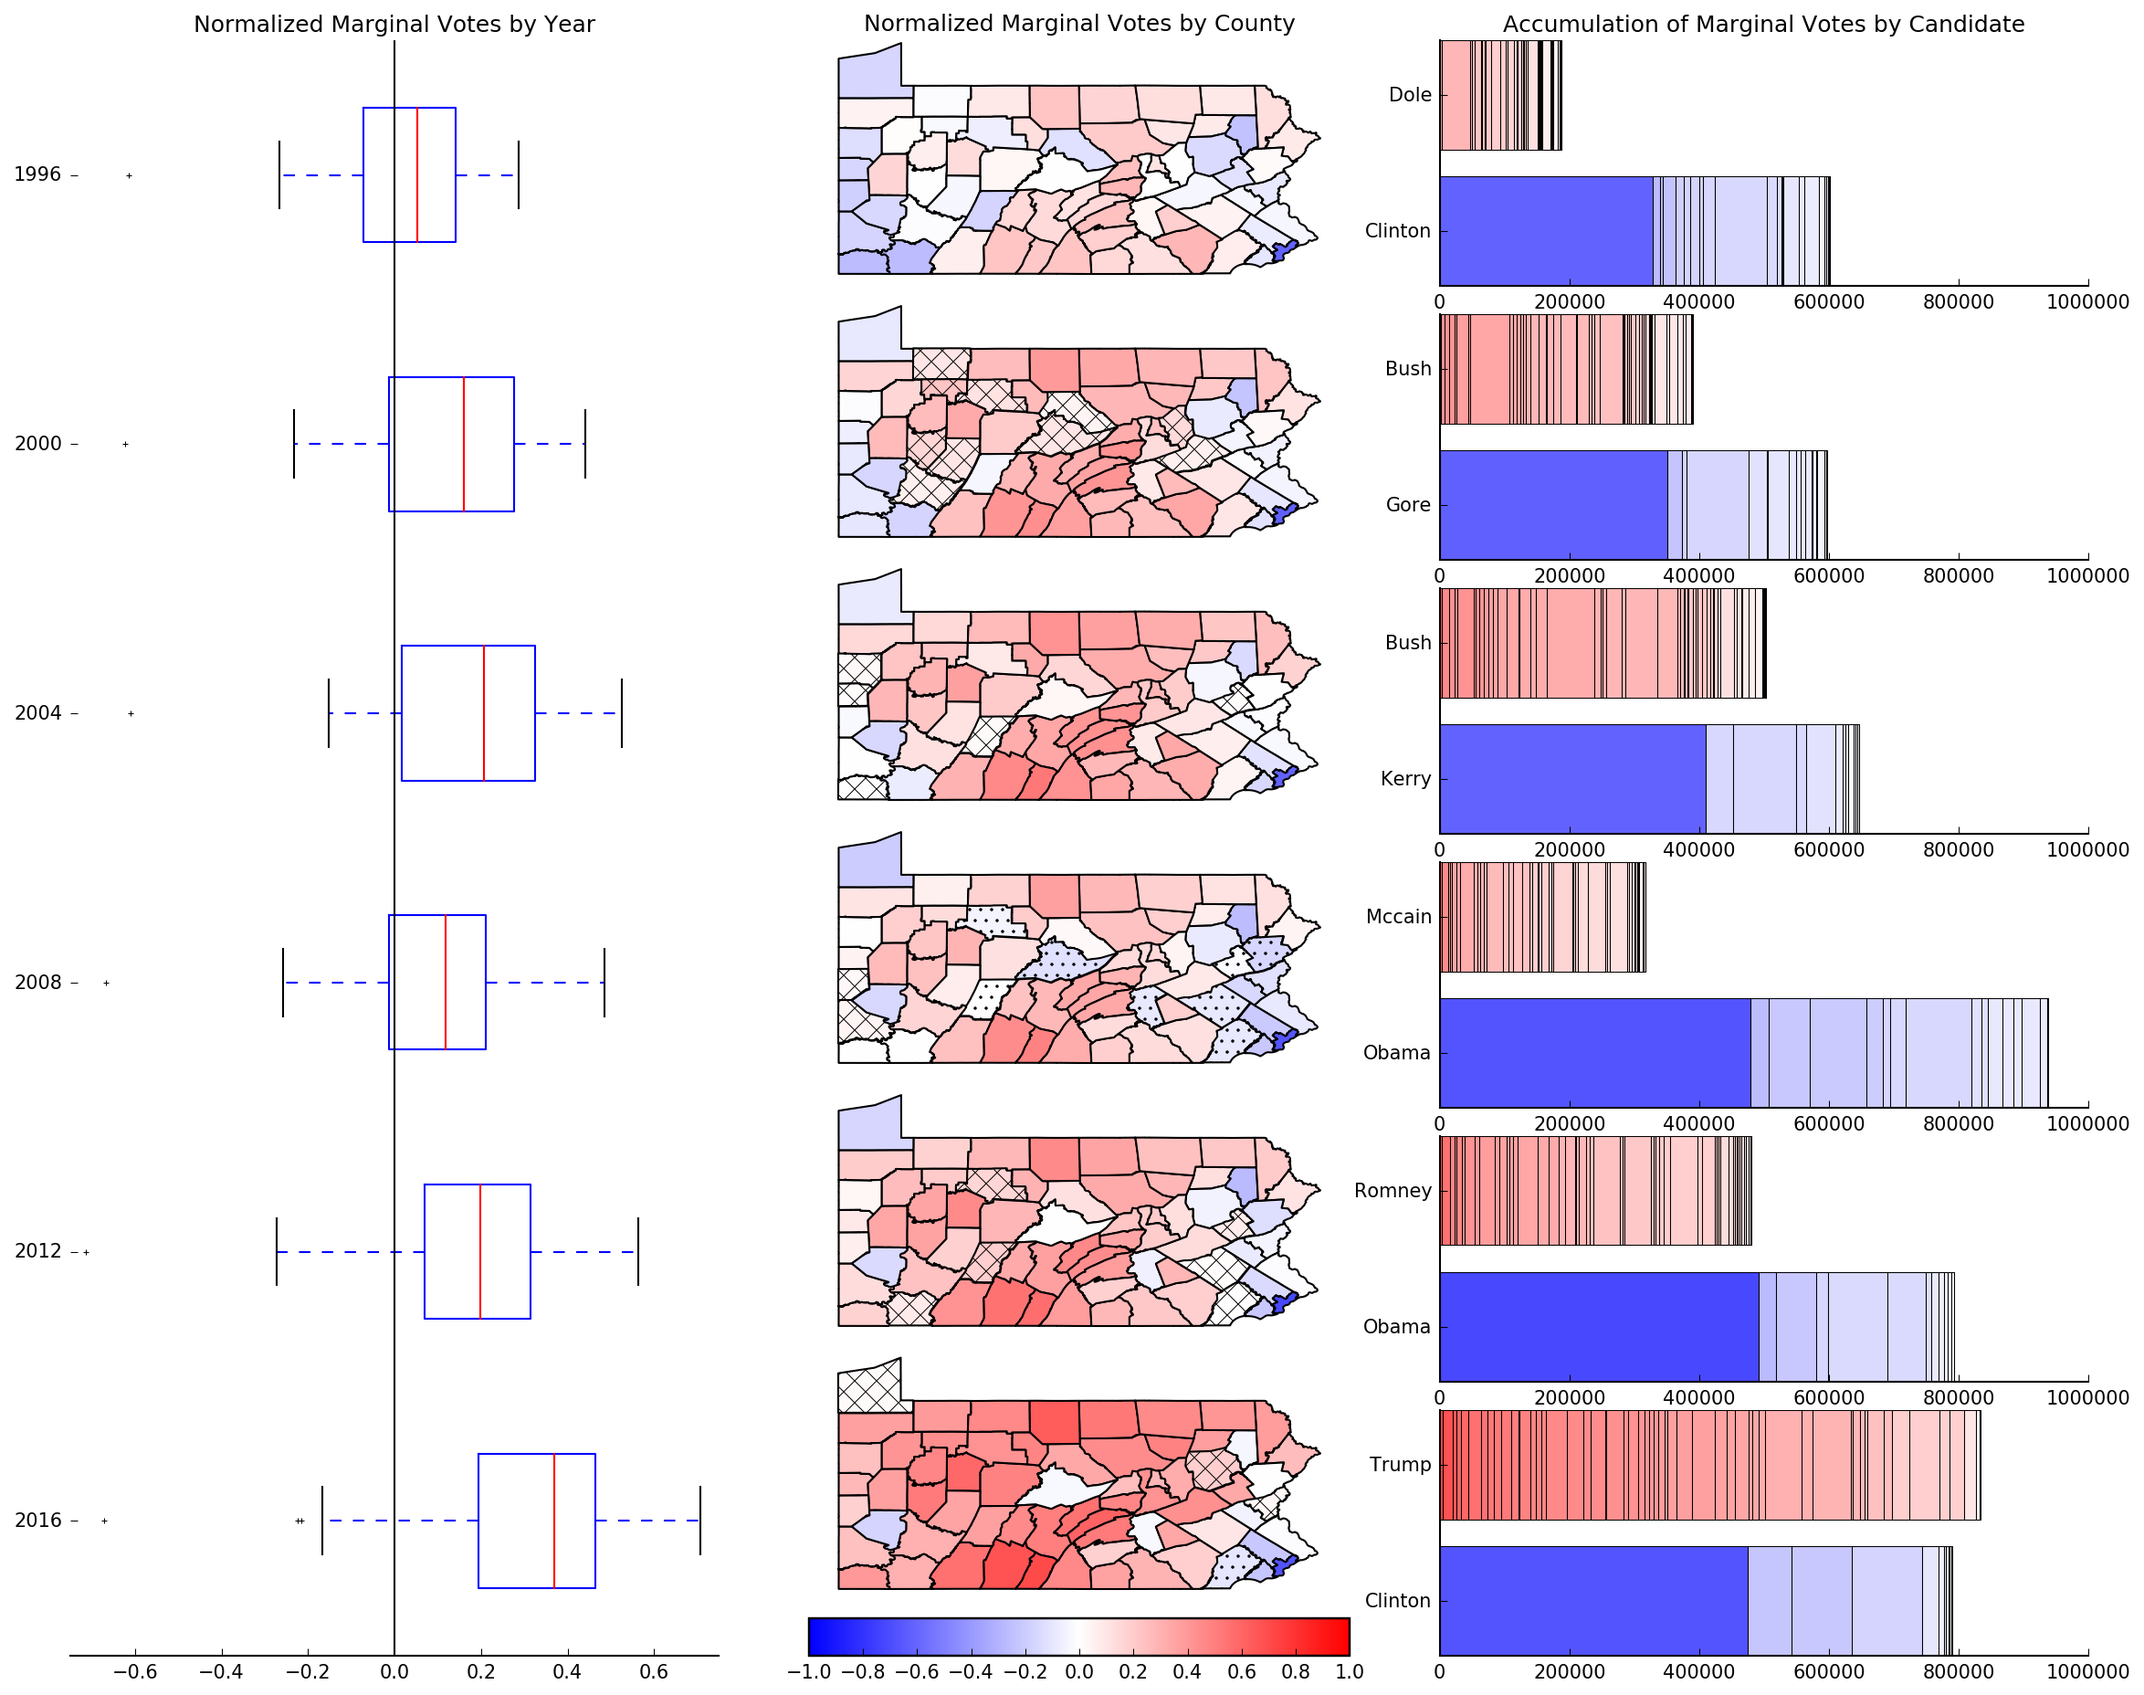
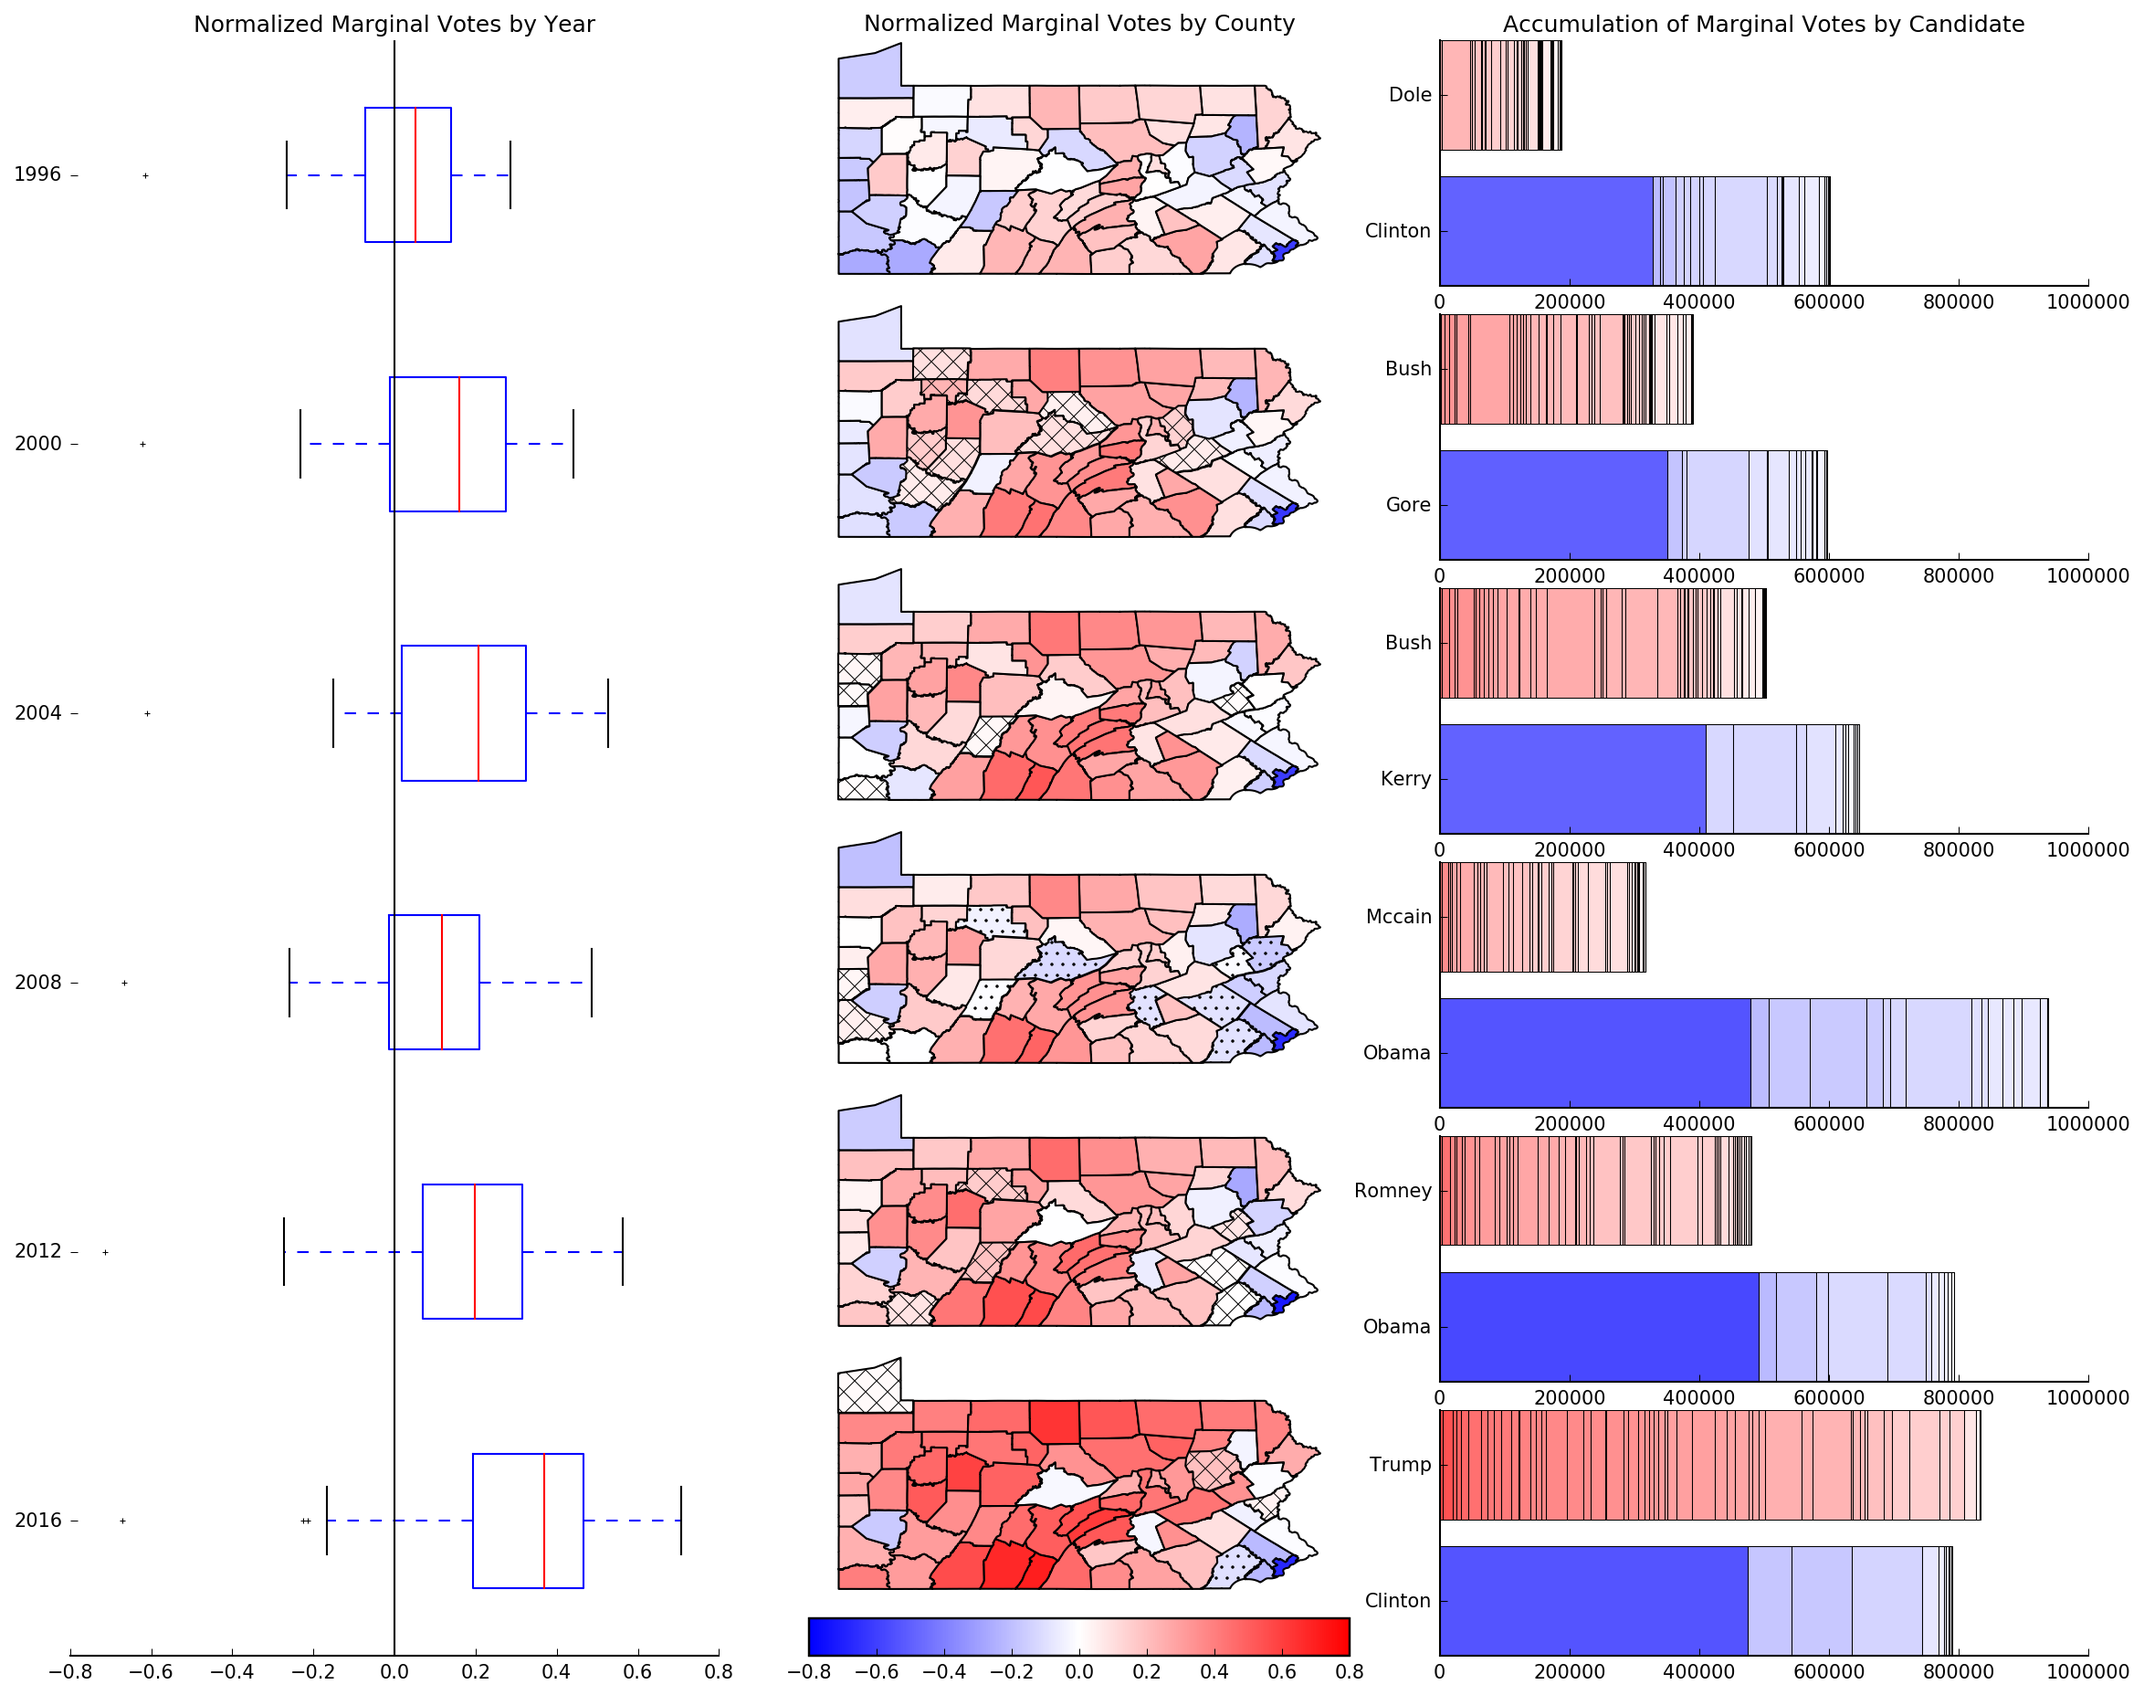
Final updates and edits to images and part 2

diff --git a/content/blog/election_pa_2016_p2.md b/content/blog/election_pa_2016_p2.md
@@ -3,8 +3,7 @@ tags = ["anaylsis", "politics"]
 title = "An examination of 2016 Election Results in Pennsylvania - Part 2"
 description = "Part 2/2 analyzing 2016 and past presidential elections in Pennsylvania state"
 slug = "election_2016_pa_p2"
-date = "2017-04-08T19:20:37-08:00"
-draft = true
+date = "2017-04-07T14:10:12-08:00"
 +++
 
 *This is the second post in a two-part series, examining presidential election
@@ -12,7 +11,7 @@ results from Pennsylvania. If you haven't
 read [Part 1]({{< relref "election_pa_2016_p1.md" >}}) yet, you should start
 there.*
 
-In my first post, we have examined the data for 2016 (and some from 2012) and
+In my first post, we examined election data from 2016 (and some from 2012) and
 uncovered some interesting results on what Trump did right. Nevertheless, many
 people (myself included and, arguably, a majority of the US population) were
 surprised by the election results. At this point I became curious: should we
@@ -42,7 +41,8 @@ We start with a look at the voting results from all elections since 1996.
 {{< fig src="/img/election_16/pa/hist_results.png" >}} Fig 1. Three different
 ways of visualizing the normalized marginal votes by county from elections
 1996-2016: Tukey boxplots (left), on a map (center) and as stacked bar charts,
-by candidate (right). {{< /fig >}}
+by candidate (right). The boxplots and map show the normalized marginal votes
+(as a percentage), while the bar charts show total marginal votes. {{< /fig >}}
 
 While it's tempting to see Trump's victory as an anomaly (the "first time in
 recent history Pennsylvania has gone red" perspective), Figure 1 tells a more
@@ -78,11 +78,13 @@ percentage of votes for independent candidates (left) and its difference
 (right) from the elections in 1996-2016. {{< /fig >}}
 
 Finally, we wrap up this section by looking at how the independent vote has
-changed over the years. From Figure 3, we see two facts. First, although votes
-for independent candidates rose in 2016, it was comparable to 2000 and is
-totally dwarfed by 1996. Second, while votes for independent candidates
-increased in every county in 2016, this shift is insignificant in scale when
-compared with the shift in normalized marginal votes (seen in Figure 2).
+changed over the years in Figure 3. Although votes for independent candidates
+rose in 2016, it was comparable to 2000 and is totally dwarfed by 1996. Further,
+while votes for independent candidates increased in every county in 2016, this
+shift is insignificant in scale when compared with the shift in normalized
+marginal votes (seen in Figure 2). Taken together, these two facts suggest that
+the number of votes garnered by independent candidates this year was normal and
+consistent with previous elections.
 
 ### Historical Registration Data
 
@@ -95,8 +97,8 @@ the basic registration variables have changed over the years[^6].
 {{% fig src="/img/election_16/pa/variables_dists_years.png" %}}
 Fig 4. Distributions by year of (from left to right): total registered voters,
 relative registered Republicans, and turnout. The second row shows how each
-variable changed between elections. Change in registered voters is calculated as
-the percent change over the last election. {{% /fig %}}
+variable changed between elections. Registered voters is normalized by the
+county population estimates for each year. {{% /fig %}}
 
 From Figure 4, note that the total number of registered voters has
 remained somewhat stable in Pennsylvania since 2000. It rose by less than 10% in
@@ -120,7 +122,7 @@ the winning in that county in that election (red=Republicans,
 blue=Democrats). {{% /fig %}}
 
 As Figure 5 indicates, the variables are indeed positively correlated, matching
-our intution above. I find it interesting how the 2008 and 20016 distributions
+our intuition above. I find it interesting how the 2008 and 2016 distributions
 are distributed over a wider range, while 2004 and 2012 are much more condensed
 around the origin. It's also remarkable how few counties exhibit opposing shifts
 (shift positive in registrations but negative in votes, or vice versa). While this
@@ -174,10 +176,10 @@ any meaningful clusters.
 
 ## Closing Thoughts
 
-In the wake of the 2016 election, we heard, in the media and on social media,
+In the wake of the 2016 election we heard, in the media and on social media,
 many exceptional stories about how all the polls were wrong and how surprising
 the result was to many people. From that, many of us, myself included,
-extrapolated that this election was anomolous - that something crazy happened
+extrapolated that this election was anomalous - that something crazy happened
 that's never happened before. And while that may have been true about the state
 of the political climate in the US or the rhetoric of the campaigns, the data
 doesn't support that conclusion. If anything, 2008 was the anomaly in recent
